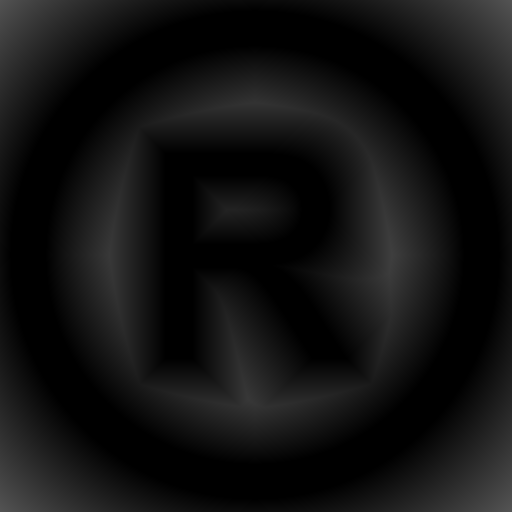
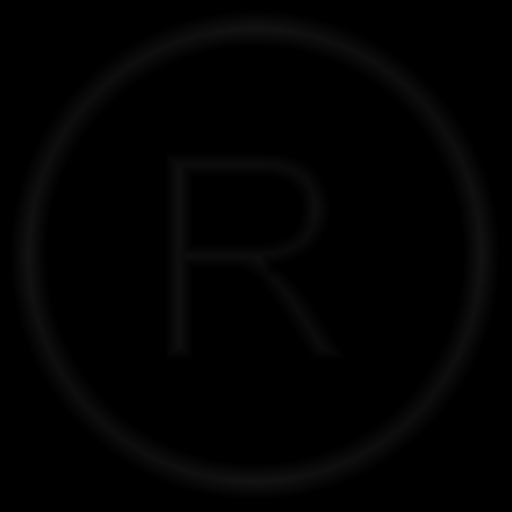
added examples for inner distance fields and signed (inner + outer) distance fields

diff --git a/src/generator.rs b/src/generator.rs
@@ -5,7 +5,6 @@ use crate::input::get_source_from_png_file_input;
 use crate::output::PngExporter;
 use std::path::{PathBuf};
 use crate::source::SourceField;
-// use crate::output::SdfExporter;
 
 pub struct DistanceGenerator {
     input_path: Option<String>,
@@ -54,10 +53,25 @@ impl DistanceGenerator {
             match source {
                 Ok(sourceField) => {
                     // generate_outer_df(&source.unwrap());
-                    let sdf = generate_outer_df(&sourceField);
-
                     if let Some(path) = &self.output_path {
-                        sdf.export(&PathBuf::from(path));
+                        match self.export_type {
+                            ExportType::UnsignedOuterDistance => {
+                                let sdf =
+                                    generate_outer_df(&sourceField);
+                                sdf.export(&PathBuf::from(path));
+                            }
+                            ExportType::UnsignedInnerDistance => {
+                                let sdf =
+                                    generate_inner_df(&sourceField);
+                                sdf.export(&PathBuf::from(path));
+                            }
+
+                            ExportType::SignedInnerOuterDistance => {
+                                let sdf =
+                                    generate_signed_df(&sourceField);
+                                sdf.export(&PathBuf::from(path));
+                            }
+                        };
                     }
                 }
                 Err(e) => {
@@ -66,24 +80,19 @@ impl DistanceGenerator {
                 }
             }
 
-            // we should test and maybe microbenchmark at least two known apporches here:
+            // we should test and maybe micro-benchmark at least two known approaches here:
             // 1) brute force O(n²)
             // 2) the old EightPointSeqEuclideanDistTrans O(n)
 
-// Notes from old C# repository:
+            // Notes from old C# repository:
 
-// edges detecten und markieren
+            // detect edges and mark them
 
-// next: make it signed
-// next: vector field
+            // next: make it signed
+            // next: vector field
 
-// vectoren zeichnen
-// später: brute force circle methode auch mal ausprobieren : https://github.com/chriscummings100/signeddistancefields/blob/master/Assets/SignedDistanceFields/SignedDistanceFieldGenerator.cs
-
-
-// https://github.com/chriscummings100/signeddistancefields
-// https://shaderfun.com/
-// https://shaderfun.com/2018/03/23/signed-distance-fields-part-1-unsigned-distance-fields/
+            // draw distance vectors
+            // implement brute force / circle method  : https://github.com/chriscummings100/signeddistancefields/blob/master/Assets/SignedDistanceFields/SignedDistanceFieldGenerator.cs
         } else {
             return Err(String::from("no input path specified"));
         }

diff --git a/src/output.rs b/src/output.rs
@@ -7,7 +7,16 @@ use std::fs::File;
 pub trait PngExporter<T> {
     fn export(&self, file_path: &Path);
 }
+impl PngExporter<i8> for DistanceField<i8> {
+    fn export(&self, file_path : &Path) {
+        // todo!("lala");
+        foo();
+    }
+}
 
+fn foo() {
+
+}
 impl PngExporter<u8> for DistanceField<u8> {
     fn export(&self, file_path: &Path) {
         // save_to_png_file(&self, &file_path);
